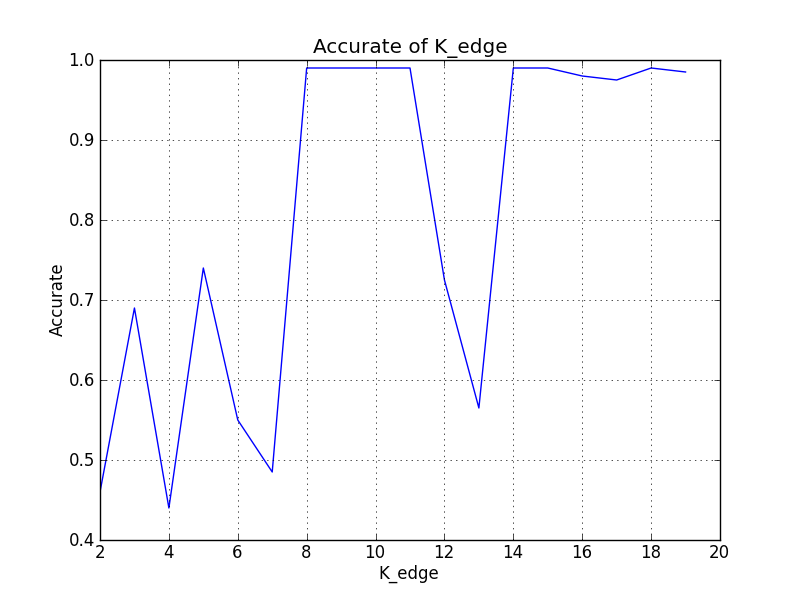
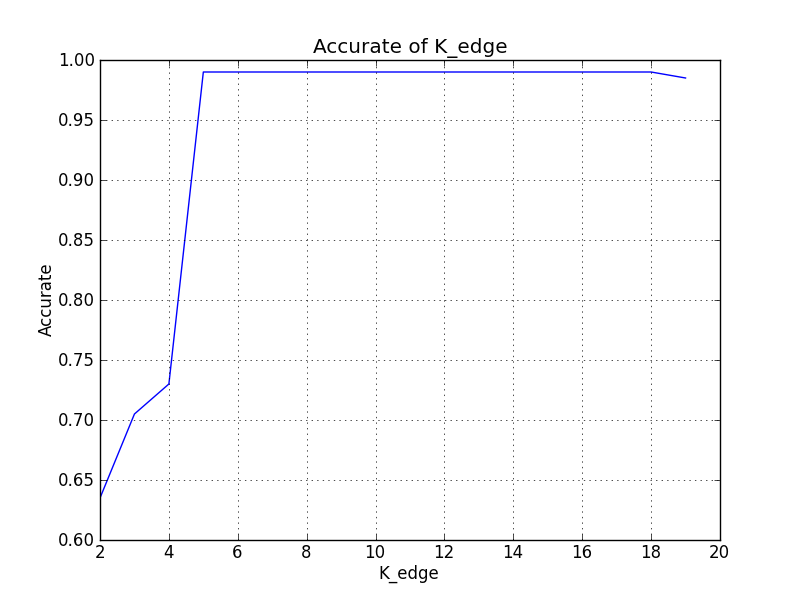
modify test model of spectral clustering

diff --git a/Clustering/SpetralClustering/SpectralClustering.py b/Clustering/SpetralClustering/SpectralClustering.py
@@ -102,7 +102,8 @@ def get_uniform_k_eig_mat(Lsym, k):
     T = []
 
     for i in np.argsort(eig_values):
-        if (eig_values[i] > 0.0000001):
+        #if (eig_values[i] > 0.0000001):
+	if (eig_values[i]):
             T.append( norm_vec(eig_vecs[:, i]))
             counts = counts + 1
         if counts >= k:
@@ -191,7 +192,7 @@ def run():
         return
     data = np.loadtxt(location + data_name, delimiter = ' ')
     #plot_origin_data(data)
-    groups = spectrum_regression(data, 2, 10, 10)
+    groups = spectrum_regression(data, 2, 10, 1)
     plot_regresstion(groups, data)
 
 def test():
